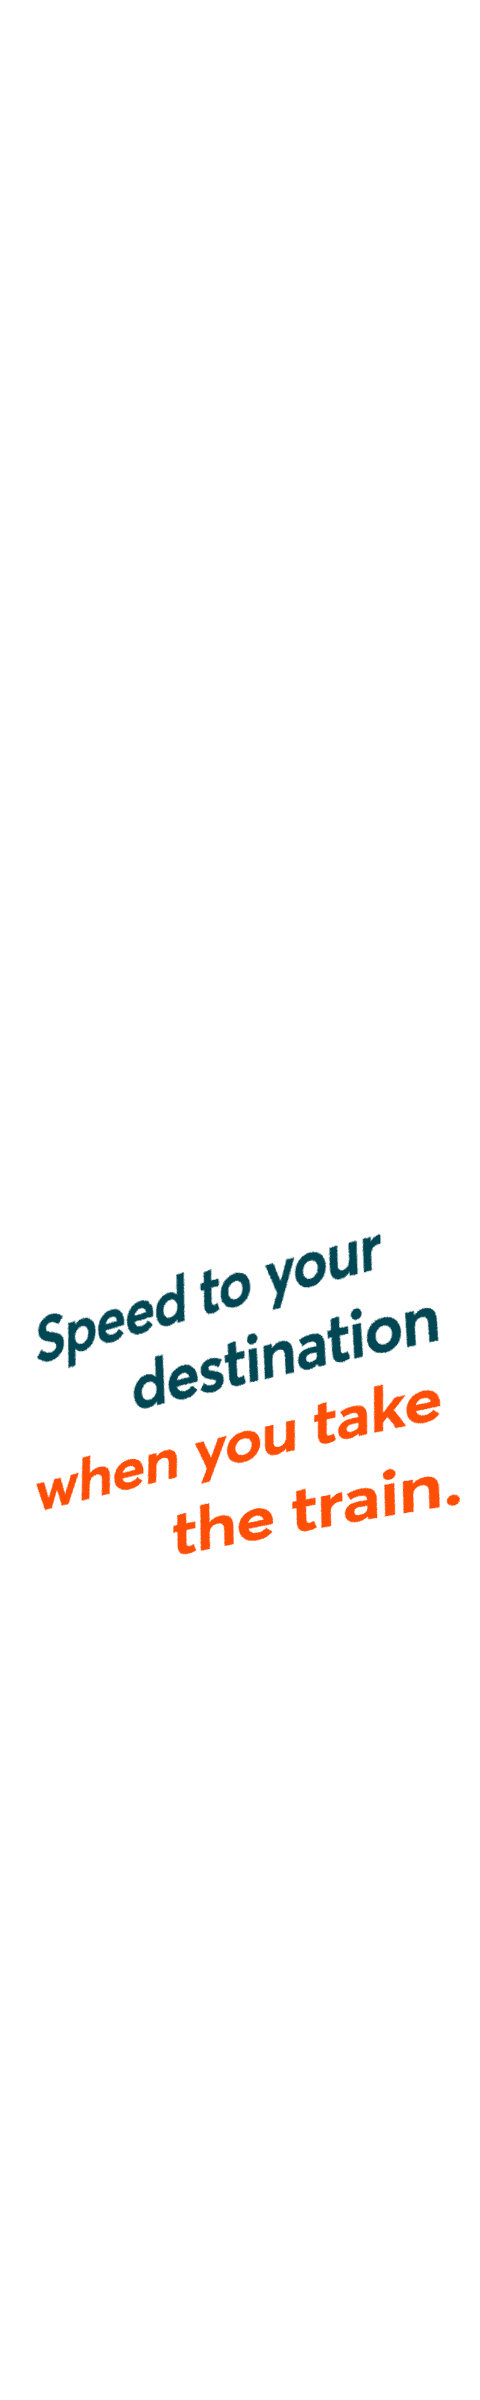
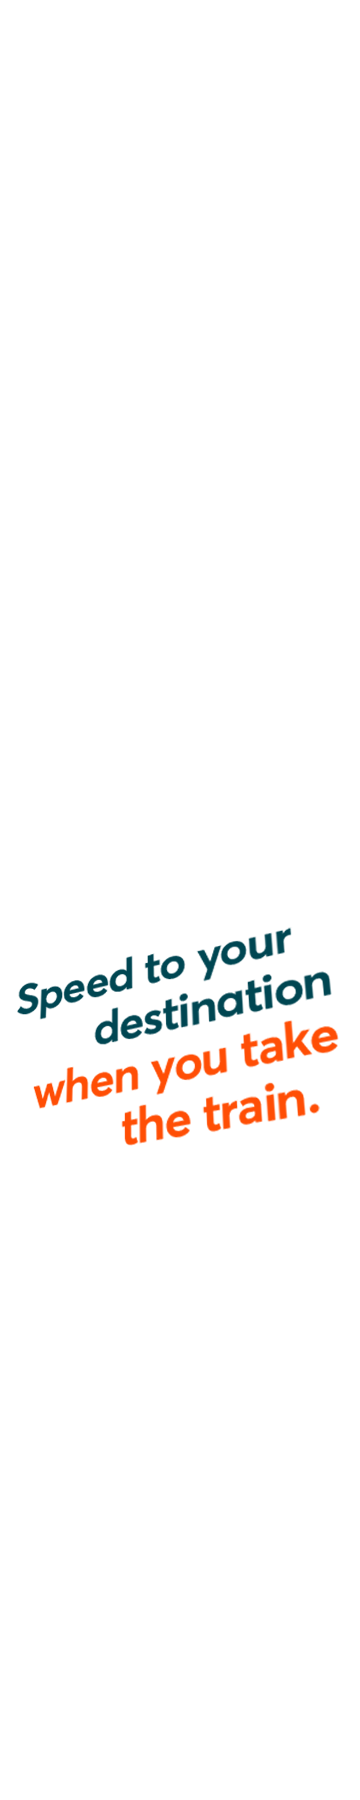
120x600

Changed region(s): [[0.0611, 0.4978, 0.9472, 0.6533]]

diff --git a/Speed/10608-01_120x600/index.html b/Speed/10608-01_120x600/index.html
@@ -23,23 +23,23 @@
     <div id="main">
         <div id="background"></div>
 
-        <!-- <img src="images/ref.png" id="ref" class="absolute full-width"/> -->
+        <!-- <img src="images/frame@3x.jpg" id="ref" style="opacity: .5; z-index: 111;" class="absolute full-width"/> -->
 
         <div id="frame-left" class="absolute frame"></div>
         <div id="frame-right" class="absolute frame"></div>
         <div id="frame-bottom" class="absolute frame"></div>
 
         <div id="headline">
-          <img src="images/headline-6.png" id="headline-6" class="absolute full-width headline" alt="" />
-          <img src="images/headline-5.png" id="headline-5" class="absolute full-width headline" alt="" />
-          <img src="images/headline-4.png" id="headline-4" class="absolute full-width headline" alt="" />
-          <img src="images/headline-3.png" id="headline-3" class="absolute full-width headline" alt="" />
-          <img src="images/headline-2.png" id="headline-2" class="absolute full-width headline" alt="" />
-          <img src="images/headline-1.png" id="headline-1" class="absolute full-width headline" alt="" />
+          <img src="images/headline-1.png" id="headline-1" class="absolute full-width headline hidden" alt="" />
+          <img src="images/headline-2.png" id="headline-2" class="absolute full-width headline hidden" alt="" />
+          <img src="images/headline-3.png" id="headline-3" class="absolute full-width headline hidden" alt="" />
+          <img src="images/headline-4.png" id="headline-4" class="absolute full-width headline hidden" alt="" />
+          <img src="images/headline-5.png" id="headline-5" class="absolute full-width headline hidden" alt="" />
+          <img src="images/headline-6.png" id="headline-6" class="absolute full-width headline hidden" alt="" />
         </div>
 
-        <img src="images/turtle.png" id="turtle" class="absolute full-width"/>
         <img src="images/turtle-shadow.png" id="turtle-shadow" class="absolute full-width"/>
+        <img src="images/turtle.png" id="turtle" class="absolute full-width"/>
         
         <img src="images/text1.png" id="text1" class="absolute full-width" alt="" />
 

diff --git a/Speed/10608-01_120x600/main.js b/Speed/10608-01_120x600/main.js
@@ -24,9 +24,10 @@ function animate() {
 
   // tl1.set(["#main_content"], { autoAlpha: 1, force3D: true });
   tl1.set(["#cta"], { force3D: false, rotation: .001 });
+  tl1.set(["#turtle-shadow"], { x:"19px", y:"39px" });
   
   tl1.to(['#turtle', '#turtle-shadow'], 1,{  y: '-=35', x: '+=120', ease: "power1.out" }, 0);
-  tl1.staggerTo(['.headline'], 1,{ scale: 1, y: '-=35', x: '+=120', ease: "power1.out" }, 0.1, 0);
+  tl1.staggerTo(['.headline'], 0.5,{ scale: 1, autoAlpha:1,  ease: "back.out(1.1)"}, 0.2, 0);
 
   tl1.to(['#frame-left'], 1,{ x: '+=100', ease: "power1.out" }, '+=0');
   tl1.to(['#frame-right'], 1,{ x: '-=100', ease: "power1.out" }, '<');

diff --git a/index.html b/index.html
@@ -56,6 +56,7 @@
         <a href="Glide/10608-01_728x90/index.html" target="_blank">728x90</a>
         <a href="Glide/10608-01_970x250/index.html" target="_blank">970x250</a>
         <h2>Speed</h2>
+        <a href="Speed/10608-01_120x600/index.html" target="_blank">120x600</a>
         <a href="Speed/10608-01_160x600/index.html" target="_blank">160x600</a>
         <a href="Speed/10608-01_300x250/index.html" target="_blank">300x250</a>
         <a href="Speed/10608-01_300x600/index.html" target="_blank">300x600</a>

diff --git a/Speed/10608-01_120x600/styles.css b/Speed/10608-01_120x600/styles.css
@@ -40,9 +40,9 @@ html, body {
 
 .headline {
   width: 150px;
-  top: 35px;
-  left: -120px;
-  transform: scale(0);
+  top: 0px;
+  left: 0px;
+  transform: scale(2.5);
 }
 
 #turtle,
@@ -64,7 +64,7 @@ html, body {
 #cta {
   width: 96px;
   left: 12px;
-  top: 425px;
+  top: 428px;
 }
 
 .frame {
